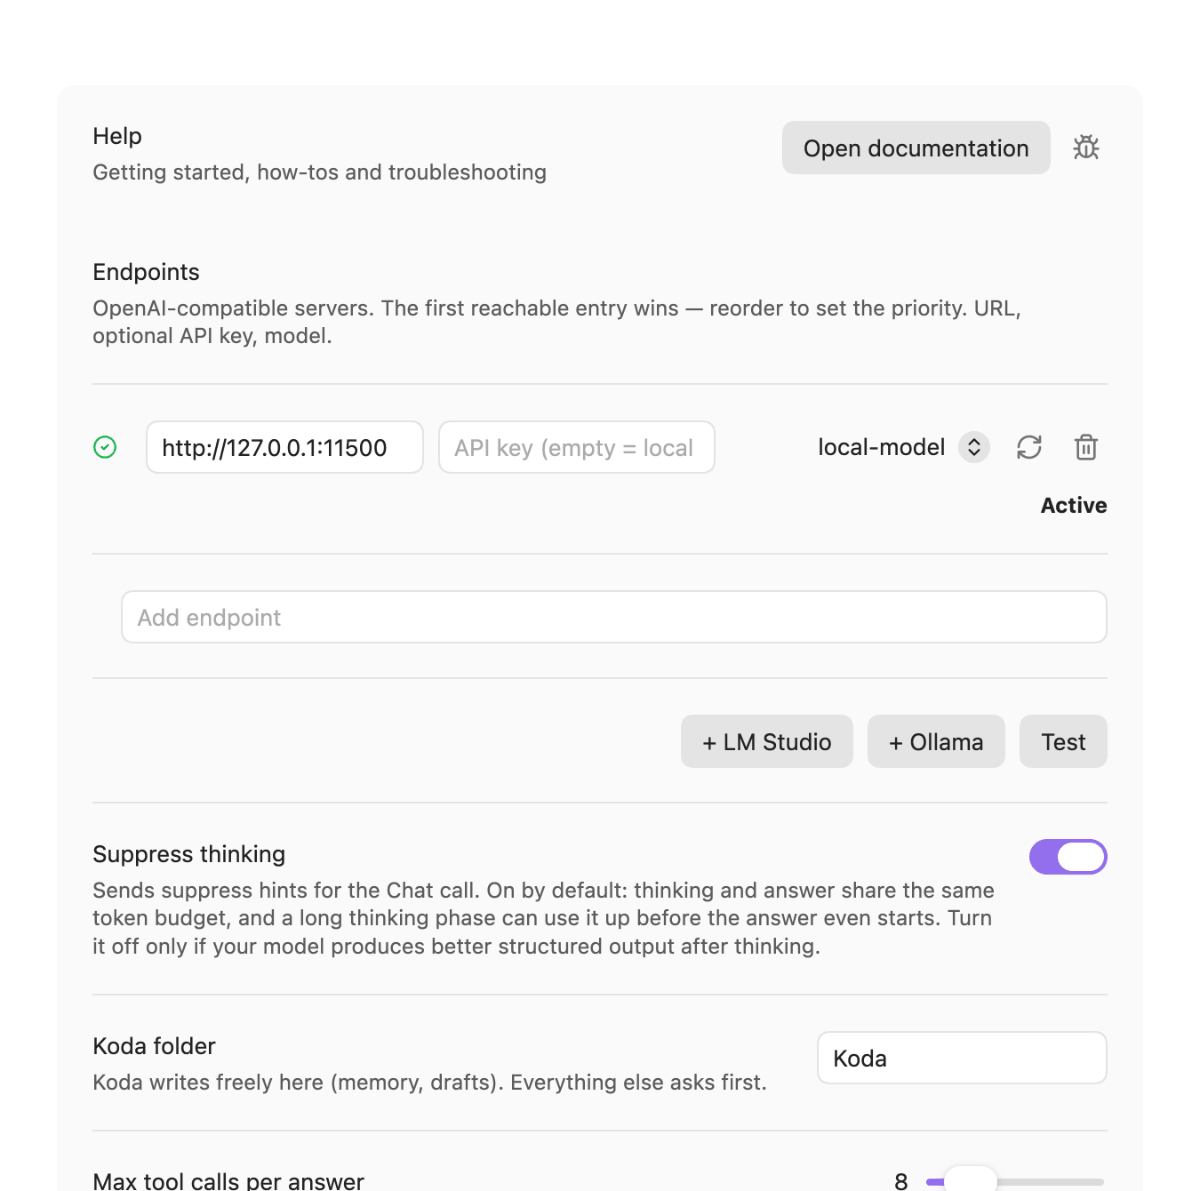
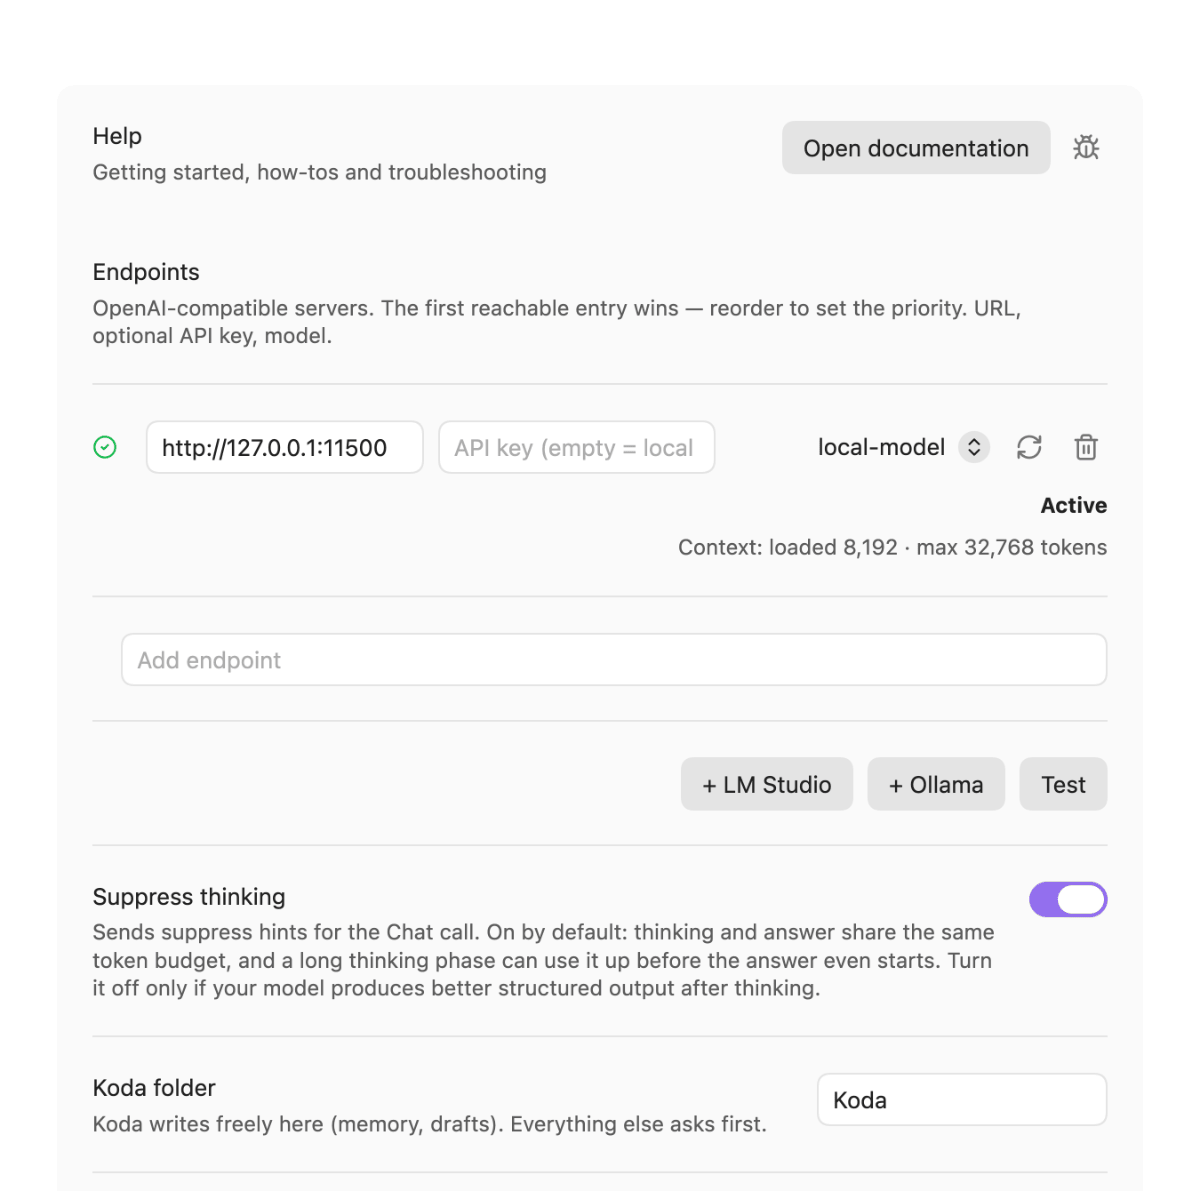
docs: CHANGELOG, Einstellungen und Bild fuer Kontextlaenge je Zeile; view baut den Schreiber mit destroy() ab
settings.png neu (Stub meldet geladen/max). view: writer.destroy() sichert sich seit obsidian-kit 0.55.0 selbst ab.

diff --git a/src/obsidian/view.ts b/src/obsidian/view.ts
@@ -422,13 +422,12 @@ export class KodaView extends ItemView {
   /** Der naechste Token-Block ist eine neue Blase. */
   private endStream(): void {
     this.streamArea = null;
-    // Seit obsidian-kit 0.52.0 haengt der Schreiber einen Wächter an die Ansicht; wer ihn
-    // fallen lässt, ohne `destroy()`, lässt ihn weiterlaufen. Erst NACH `settled()`: ein noch
-    // laufendes Rendering macht seinen letzten Wächter-Durchgang danach, und ein sofortiges
-    // `destroy()` nähme ihm den (Fernquellen im letzten Block blieben ungeprüft).
+    // Seit obsidian-kit 0.52.0 haengt der Schreiber einen Waechter an die Ansicht; wer ihn
+    // fallen laesst, ohne `destroy()`, laesst ihn weiterlaufen. Seit 0.55.0 sichert `destroy()`
+    // sich selbst ab: laeuft noch ein Block, trennt es den Observer erst nach `settled()`.
     const writer = this.streamWriter;
     this.streamWriter = null;
-    if (writer !== null) void writer.settled().then(() => writer.destroy());
+    writer?.destroy();
   }
 
   /** Legt Bereich + Schreiber einmalig je Antwort an — Gedanken koennen vor dem ersten

diff --git a/scripts/shots.ts b/scripts/shots.ts
@@ -142,7 +142,10 @@ async function startStub(): Promise<{ url: string; close: () => Promise<void> }>
       return;
     }
     res.writeHead(200, { ...cors, "Content-Type": "application/json" });
-    res.end(req.url?.includes("/models") === true
+    res.end(req.url?.includes("/api/v0/models") === true
+      // LM-Studio-Form: das Einstellungsbild zeigt die Kontextlaenge unter der Zeile (obsidian-kit 0.56.0).
+      ? JSON.stringify({ data: [{ id: STUB_MODEL, max_context_length: 32768, loaded_context_length: 8192 }] })
+      : req.url?.includes("/models") === true
       ? JSON.stringify({ data: [{ id: STUB_MODEL, object: "model" }] })
       : JSON.stringify({ ok: true }));
   });

diff --git a/docs/reference/settings.md b/docs/reference/settings.md
@@ -6,7 +6,7 @@ All settings are under **Settings → Koda**, in this order. Numbers outside the
 
 | Setting | Default | Range | What it does |
 |---|---|---|---|
-| Endpoints | `http://127.0.0.1:1234` | | OpenAI-compatible servers, each with URL, optional API key and the model sent to that endpoint (**Fetch models** fills a list to pick from; a row without a model sends none). There is no global model setting. API keys are kept in Obsidian's secret storage, not in `data.json`: a saved key shows as **saved** with **Change key** and **Remove key**. A key from an older version moves there the first time Koda uses the endpoint. **The first reachable entry wins**: Koda tries them top to bottom once per session and remembers the winner; if a request fails, it looks again once. Reorder with **Move to top**. Every row is checked when the settings open: a check mark, or a cross whose tooltip names the cause; below the row its role (**Active**, **Unreachable**, **Standby — position N**). **Test** checks all rows again; **+ LM Studio** and **+ Ollama** add their default addresses. |
+| Endpoints | `http://127.0.0.1:1234` | | OpenAI-compatible servers, each with URL, optional API key and the model sent to that endpoint (**Fetch models** fills a list to pick from, with **— (server picks)** to clear the choice; a row without a model sends none). There is no global model setting. API keys are kept in Obsidian's secret storage, not in `data.json`: a saved key shows as **saved** with **Change key** and **Remove key**. A key from an older version moves there the first time Koda uses the endpoint. **The first reachable entry wins**: Koda tries them top to bottom once per session and remembers the winner; if a request fails, it looks again once. Reorder with **Move to top**. Every row is checked when the settings open: a check mark, or a cross whose tooltip names the cause; below the row its role (**Active**, **Unreachable**, **Standby — position N**) and, when the server reports it for the row's model, the context length (`Context: loaded 8,192 · max 32,768 tokens`; **Fetch models** asks again). **Test** checks all rows again; **+ LM Studio** and **+ Ollama** add their default addresses. |
 | Suppress thinking | on | | Asks reasoning models not to think out loud, and hides the thinking block. |
 | Koda folder | `Koda` | | The folder Koda writes to without asking (memory, drafts). Skills in its `Skills/` subfolder still ask. |
 | Max tool calls per answer | 8 | 1–50 | How many tool calls Koda may chain for one question before it has to answer. |

diff --git a/CHANGELOG.md b/CHANGELOG.md
@@ -6,6 +6,17 @@ All notable changes to this project are documented here. The format follows
 
 ## [Unreleased]
 
+### Added
+
+- **Context length per endpoint row.** Under a reachable row with a model, the settings now show what the server reports for that model, e.g. `Context: loaded 8,192 · max 32,768 tokens` (LM Studio gives both, Ollama only the maximum). The check that fills **Context window** and this line share one request per row and model; **Fetch models** asks again.
+- The model picker of every row offers **— (server picks)** again to clear the choice (the row then sends no model).
+
+### Changed
+
+- Kit pins moved to obsidian-kit 0.56.0 and code-kit 0.23.0 (skipping obsidian-kit 0.54.0–0.55.0 and code-kit 0.22.0–0.22.1): long streamed replies are checked for remote sources noticeably faster and leak less; the `<think>` clean-up in the kit is linear for degenerate replies; the Bearer mask and the Mermaid rule from the previous pin stay.
+- The text tool-call fallback now reads the JSON through the kit. **A tool call behind prose that contains brackets is found** (e.g. `see [1]: {"tool": …}`; before, the first bracket pair hid it). **An unclosed `<think>` now drops the rest of the reply**, so no tool call is read from behind it. Of the existing cases nothing else changes.
+- Reading the context window goes through the kit: LM Studio first, then Ollama, as before. Each attempt stops waiting after 5 seconds (as before); the status check still accepts only 2xx answers.
+
 ## [0.23.0] — 2026-10-11
 
 ### Fixed
